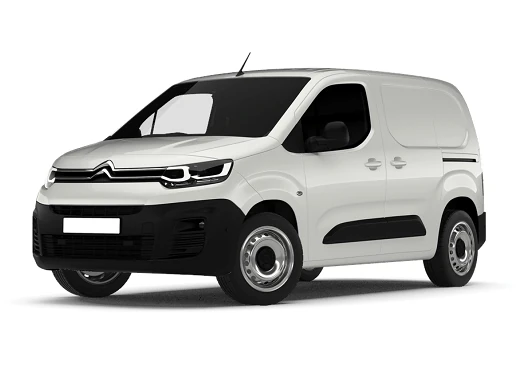
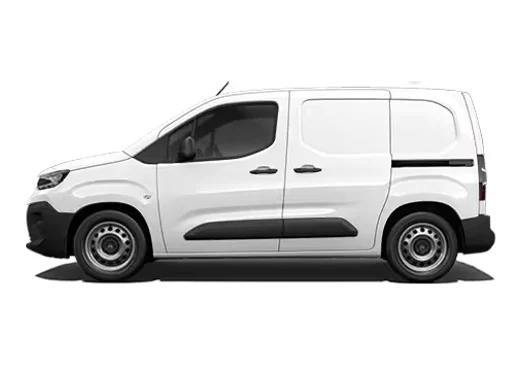
eHűtőautó: current-generation electric vans in the vehicle list
Nine current models instead of five older ones: Peugeot E-Partner, Citroën
ë-Berlingo, Opel Combo Electric, Toyota Proace City Electric, Nissan Townstar
EV (replaces the e-NV200), BYD ETP3, Kia PV5 Cargo, Mercedes-Benz eVito and
eSprinter. Manufacturer studio shots with badges removed, cut out and centred
on a uniform white 521×365 canvas.

diff --git a/app/lib/eco.ts b/app/lib/eco.ts
@@ -93,16 +93,20 @@ export const ECO_FEATURES: { icon: IconName; title: string; body: string }[] = [
 ];
 
 /**
- * Electric vans converted to refrigerated vehicles, with the studio shots from
- * the original ehutoauto.hu (white-background cut-outs, 521×365 - shown on
- * white cards at about native size).
+ * Electric vans converted to refrigerated vehicles, current model years, from
+ * small to large. Manufacturer studio shots, cut out and centred on a white
+ * 521×365 canvas so every card matches (shown at about native size).
  */
 export const ECO_VEHICLES: { make: string; model: string; image: string }[] = [
-  { make: "BYD", model: "T3 EV", image: "/images/eco/byd-t3-ev.webp" },
-  { make: "Peugeot", model: "e-Partner", image: "/images/eco/peugeot-e-partner.webp" },
-  { make: "Citroën", model: "e-Berlingo", image: "/images/eco/citroen-e-berlingo.webp" },
-  { make: "Nissan", model: "e-NV200", image: "/images/eco/nissan-e-nv200.webp" },
-  { make: "Opel", model: "Combo-e", image: "/images/eco/opel-combo-e.webp" },
+  { make: "Peugeot", model: "E-Partner", image: "/images/eco/peugeot-e-partner.webp" },
+  { make: "Citroën", model: "ë-Berlingo", image: "/images/eco/citroen-e-berlingo.webp" },
+  { make: "Opel", model: "Combo Electric", image: "/images/eco/opel-combo-electric.webp" },
+  { make: "Toyota", model: "Proace City Electric", image: "/images/eco/toyota-proace-city-electric.webp" },
+  { make: "Nissan", model: "Townstar EV", image: "/images/eco/nissan-townstar-ev.webp" },
+  { make: "BYD", model: "ETP3", image: "/images/eco/byd-etp3.webp" },
+  { make: "Kia", model: "PV5 Cargo", image: "/images/eco/kia-pv5-cargo.webp" },
+  { make: "Mercedes-Benz", model: "eVito", image: "/images/eco/mercedes-evito.webp" },
+  { make: "Mercedes-Benz", model: "eSprinter", image: "/images/eco/mercedes-esprinter.webp" },
 ];
 
 /** Shared by the home and "why electric" pages. */
@@ -134,7 +138,7 @@ export const ECO_SEO: Record<EcoPage, { title: string; description: string }> = 
   vehicles: {
     title: "Átalakítható elektromos furgonok | eHűtőautó – Autotherm",
     description:
-      "BYD T3 EV, Peugeot e-Partner, Citroën e-Berlingo, Nissan e-NV200, Opel Combo-e – elektromos kisteherautók hűtőautóvá alakítása.",
+      "Peugeot E-Partner, Citroën ë-Berlingo, Opel Combo Electric, Toyota Proace City Electric, Nissan Townstar EV, BYD ETP3, Kia PV5 Cargo, Mercedes-Benz eVito és eSprinter – elektromos furgonok hűtőautóvá alakítása.",
   },
   quote: {
     title: "Árajánlatkérés – elektromos hűtőautó | eHűtőautó – Autotherm",

diff --git a/app/components/eco/EcoVehicleStrip.tsx b/app/components/eco/EcoVehicleStrip.tsx
@@ -29,8 +29,8 @@ export default function EcoVehicleStrip() {
             width={521}
             height={365}
             // Loaded up front: browser lazy-loading doesn't reliably fire for
-            // items inside the pinned, transformed track, and these five files
-            // are ~20 KB each. Already sized for this card, so served as-is.
+            // items inside the pinned, transformed track, and these files are
+            // ~15 KB each. Already sized for this card, so served as-is.
             loading="eager"
             unoptimized
             className="mt-2 aspect-[521/365] h-auto w-full object-contain"

diff --git a/app/(eco)/eco/arajanlatkeres/page.tsx b/app/(eco)/eco/arajanlatkeres/page.tsx
@@ -17,7 +17,7 @@ export default function EcoQuotePage() {
   const dict = getDict("hu");
   // Same form and pipeline as the main site; the page value tags the lead as
   // coming from ehutoauto.hu, and the vehicle hint points at electric vans.
-  const form = { ...dict.form, vehiclePlaceholder: "Pl. Citroën e-Berlingo, Nissan e-NV200" };
+  const form = { ...dict.form, vehiclePlaceholder: "Pl. Citroën ë-Berlingo, Kia PV5 Cargo" };
 
   return (
     <>
